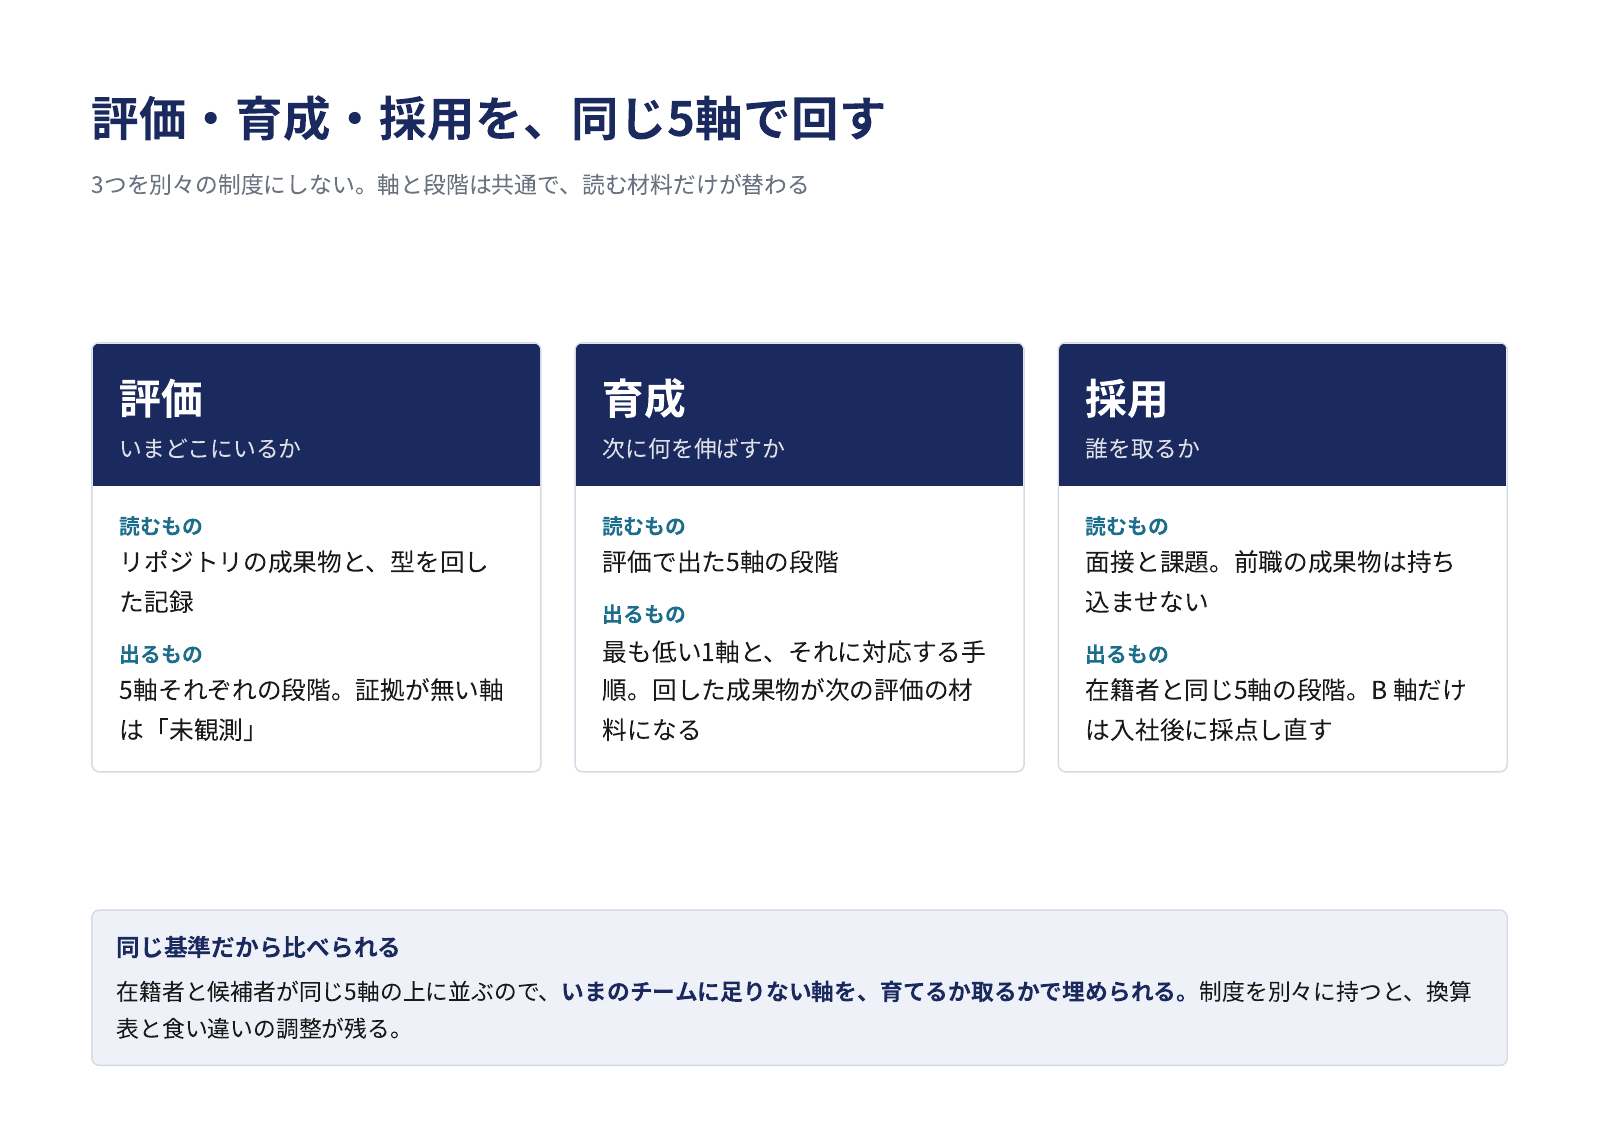
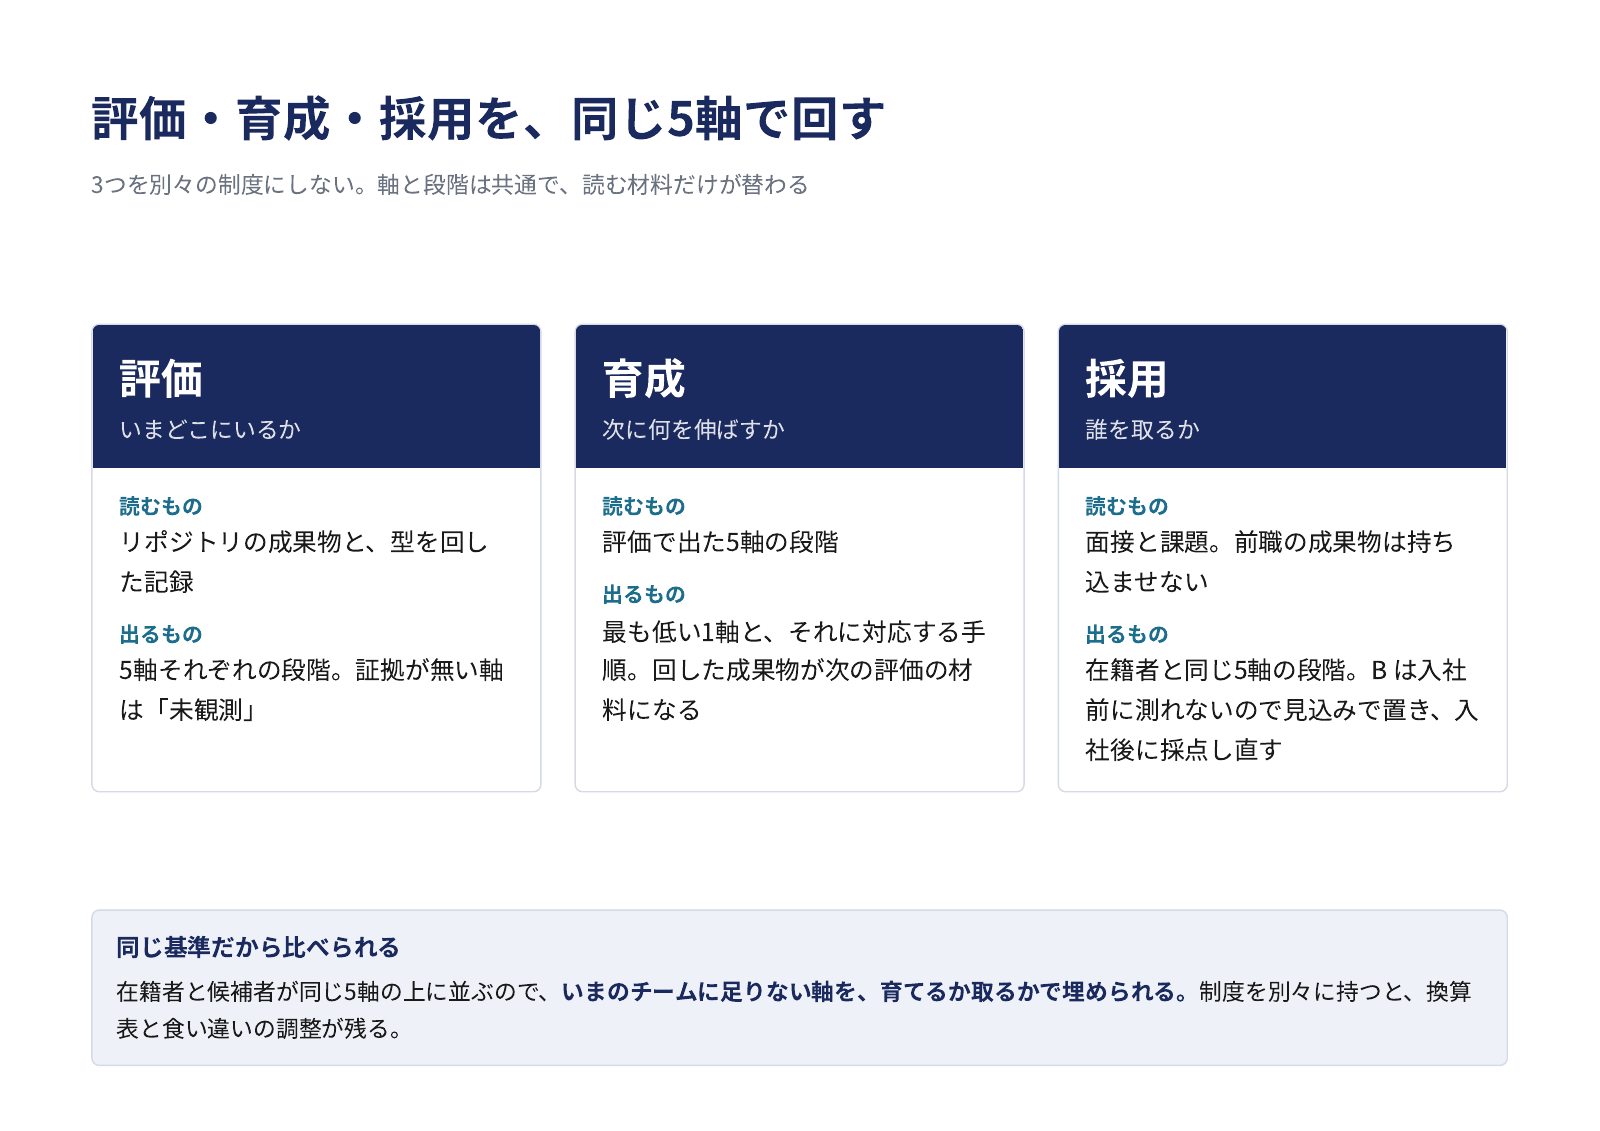
Align ladder slides with the ladder docs
スライドの文言のうち、ladder.md・scoring.md・hiring.md と食い違っていた4か所を MD に合わせる。判定文の書き方の対比を「解釈に委ねる語を使わない」に、型で届く高さに C の例外を足し、候補者の採点し直しを B だけでなく全軸にした。MD に無い E 軸の位置付けは外した。

Changed region(s): [[0.0312, 0.2785, 0.9375, 0.6808]]

diff --git a/ladder/slides.html b/ladder/slides.html
@@ -136,7 +136,7 @@ li::before{ content:""; position:absolute; left:.4mm; top:calc(.5lh - .75mm);
             <dt>出るもの</dt><dd>最も低い1軸と、それに対応する手順。回した成果物が次の評価の材料になる</dd></dl></div>
       <div class="use"><div class="n">採用<span>誰を取るか</span></div>
         <dl><dt>読むもの</dt><dd>面接と課題。前職の成果物は持ち込ませない</dd>
-            <dt>出るもの</dt><dd>在籍者と同じ5軸の段階。B 軸だけは入社後に採点し直す</dd></dl></div>
+            <dt>出るもの</dt><dd>在籍者と同じ5軸の段階。B は入社前に測れないので見込みで置き、入社後に採点し直す</dd></dl></div>
     </div>
   </div>
   <div class="foot"><div class="callout">
@@ -203,7 +203,7 @@ li::before{ content:""; position:absolute; left:.4mm; top:calc(.5lh - .75mm);
 <section class="page">
   <div class="head">
     <h1>判定文（1/3）　A 上流・提案と関係者調整／B 型の運用</h1>
-    <div class="sub">「やったことがあるか」ではなく「リポジトリの何を開けば真偽が確かめられるか」で書く</div>
+    <div class="sub">評価者の解釈に委ねる語を使わず、リポジトリの何を開けば真偽が確かめられるかで書く</div>
   </div>
   <div class="body">
     <div style="display:flex;gap:6mm;flex:1">
@@ -267,7 +267,7 @@ li::before{ content:""; position:absolute; left:.4mm; top:calc(.5lh - .75mm);
 <section class="page">
   <div class="head">
     <h1>判定文（3/3）　E インフラ・基盤／採点の原則</h1>
-    <div class="sub">実装が標準化で埋まるほど、個人差が残る領域</div>
+    <div class="sub">採点は能力で読み、5軸を平均しない</div>
   </div>
   <div class="body">
     <div style="display:flex;gap:6mm;flex:1">
@@ -296,7 +296,7 @@ li::before{ content:""; position:absolute; left:.4mm; top:calc(.5lh - .75mm);
   </div>
   <div class="foot"><div class="callout">
     <div class="t">採点結果が型の欠陥を指すとき</div>
-    同じ軸の同じ段階で複数人が同時に止まっているなら、人ではなく型を疑う。型を回して確実に届くのは L2 までで、<b>L3 以上は5軸とも、型を回した経験の副産物では届かない。</b>機会を配って初めて出る。
+    同じ軸の同じ段階で複数人が同時に止まっているなら、人ではなく型を疑う。ただし型を回して届くのは L2 までで、C は L2 も型では届かない。<b>L3 以上は5軸とも、型を回した経験の副産物では届かない。</b>
   </div></div>
 </section>
 
